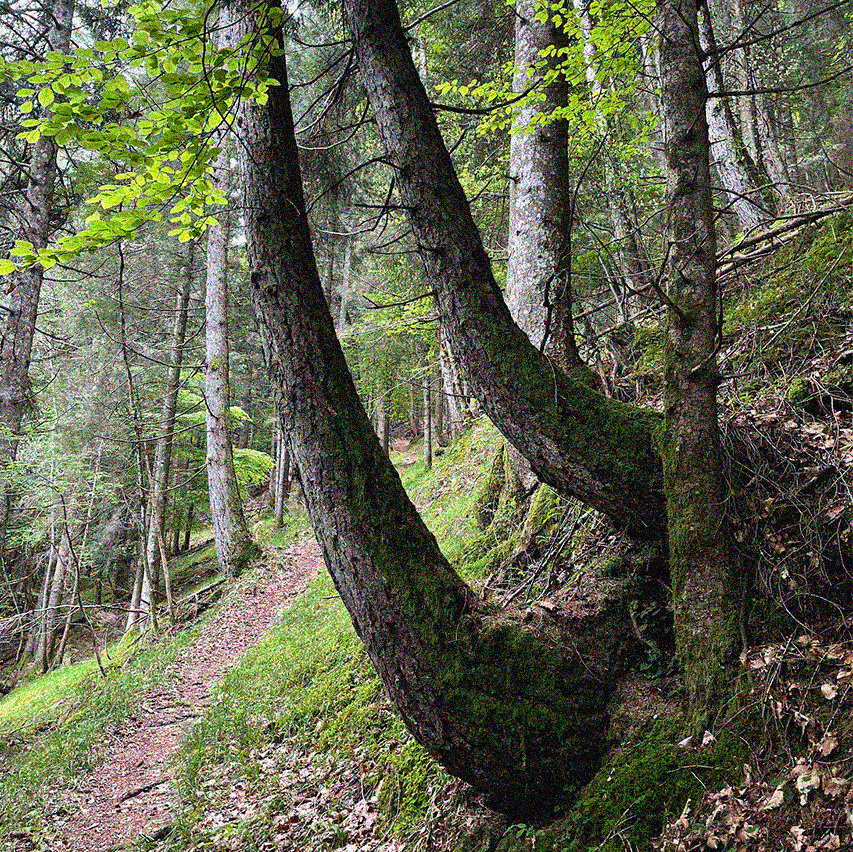
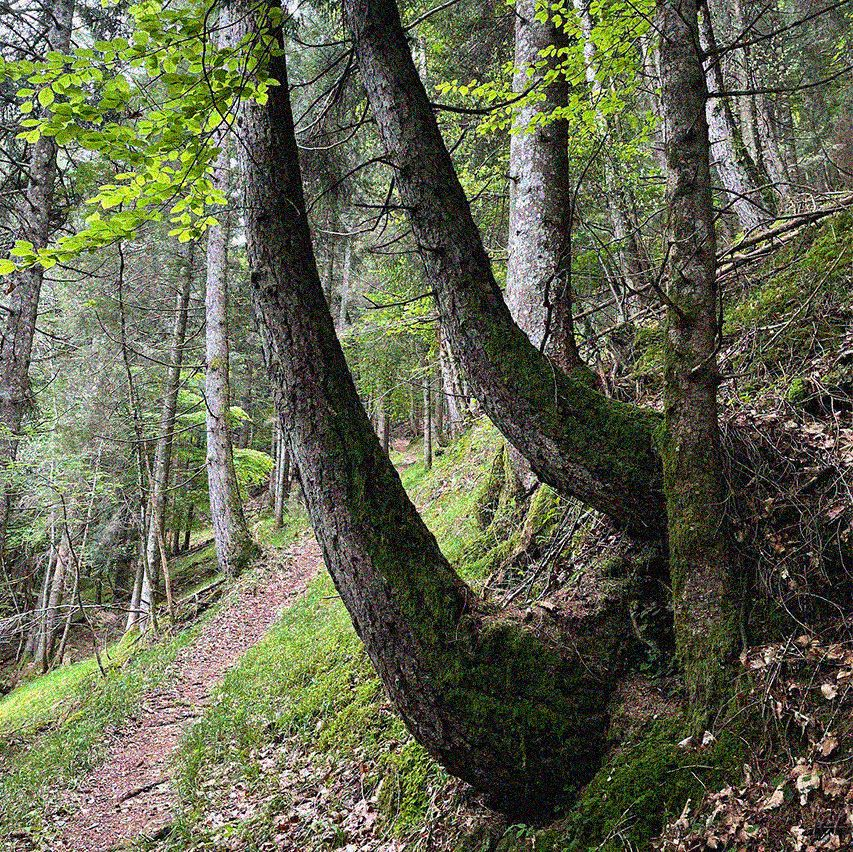
add post on ADHD and attention, compress images

diff --git a/src/posts/adhd-born-or-made.md b/src/posts/adhd-born-or-made.md
@@ -1,0 +1,141 @@
+---
+title: Is ADHD something you're born with, or can you develop it?
+description: Can the digital environment shape our attention? Here is what the studies actually say.
+author: Matteo
+date: 2026-11-06T12:00:00.000Z
+cover: abandoned-carts.webp
+coverTitle: Caucaia - Brazil (Sep 2026)
+language: en
+tags:
+  - adhd
+  - attention
+  - digital media
+  - science
+---
+
+**TL;DR**
+
+- ADHD is a neurodevelopmental disorder. It starts in childhood, even when the diagnosis comes in adulthood, and genetics plays a large part.
+- Poor sleep, stress, anxiety and constant interruptions can make focusing hard. None of that is ADHD.
+- Studies link heavy or problematic social media use to more attention symptoms. The effects are small, the link runs both ways, and no study shows that screens cause ADHD.
+- Platforms are built to hold your attention. Muting notifications, protecting sleep and doing one task at a time help. They don't treat ADHD.
+
+## Introduction
+
+We open the phone to answer a message. One video leads to another, a notification arrives, and a few minutes later the task we left half done is still sitting there. It's easy to wonder whether these experiences are changing our attention, or even producing ADHD. Answering means separating a clinical diagnosis from attention problems that can have many causes, and understanding what studies on digital media actually measure.
+
+## ADHD starts in childhood, even when the diagnosis comes later
+
+ADHD is a neurodevelopmental disorder. It concerns how the capacities for attention, activity regulation and impulse control develop and work. It doesn't mean being distracted now and then. For a diagnosis, symptoms must be persistent, show up in more than one setting and significantly impair daily life. Anxiety, depression, learning difficulties and sleep problems can produce similar symptoms, and a clinical assessment has to consider them. The [NIMH](https://www.nimh.nih.gov/health/topics/attention-deficit-hyperactivity-disorder-adhd) and the [CDC](https://www.cdc.gov/adhd/about/index.html) describe ADHD as a condition that begins in childhood. Signs can change with age and become more visible as demands at school, at work or in organizing daily life increase.
+
+A diagnosis in adulthood doesn't necessarily mean the disorder started then. Some people struggled from childhood but compensated, had support, or were never recognized. In other cases, childhood memories are incomplete and the assessment needs extra care. A diagnosis doesn't come from a single test or a self-description on its own. Clinicians reconstruct history, symptoms, settings and functional impact.
+
+Genetics carries a lot of weight. Heritability estimates from twin studies sit around 70–80%, but they describe differences in risk across populations. They are not the probability that a specific person inherits ADHD, and they don't decide anyone's fate. The [World Federation of ADHD international consensus](https://doi.org/10.1016/j.neubiorev.2021.01.022) stresses that risk emerges from the interaction of many genetic and environmental factors. Risk factors under study include prenatal exposures, preterm birth and some health conditions. A risk factor is not a sufficient cause, and an exposure alone is not grounds for a diagnosis.
+
+## Similar symptoms, different causes
+
+Trouble concentrating can show up without ADHD. Short or poor sleep, chronic stress, anxiety or depression, too many tasks at once, or constant interruptions can all make working memory and attention control harder. These experiences are real, but they don't prove that someone has developed ADHD.
+
+Digital habits can be part of this picture. Switching often between chats, videos and work, for example, can make it harder to pick up the thread again. That doesn't mean the smartphone caused a neurodevelopmental disorder. Time spent online says little on its own. What matters is what you're doing, when, with how many interruptions, and what it pushes out.
+
+## Plasticity: the brain changes, but not automatically
+
+The brain changes its connections and ways of working through learning and experience. Synaptic plasticity (the change in how effectively neurons connect) helps build skills and habits. Repeating an activity often makes some of its steps smoother, and sleep helps consolidate what we learned. None of this means every repeated behavior produces a permanent change that is the same for everyone.
+
+Sustained attention and executive functions, such as planning and holding back an impulsive response, keep developing from childhood through adolescence. Experience, chances to practice, sleep and context can influence how these capacities get used. In adults they remain plastic. But plasticity doesn't show that a digital experience generates ADHD, or that an exercise can "rewire" the brain in a guaranteed direction.
+
+## Why platforms hold our attention
+
+Many platforms combine continuous feeds, notifications, short videos and personalized recommendations. A stream of content can offer novelty with no natural pause. Likes, messages and new videos arrive at times that aren't always predictable. Variable rewards can encourage repeated checking, while visual and sound cues and interruptions make it easier to jump from one activity to the next.
+
+These mechanisms are a plausible explanation for why some people keep going back to an app or find it hard to stop. They are not a diagnosis, and they don't explain every behavior. Dopamine isn't a universal pleasure switch either. It's involved in several processes, including learning and motivation, and naming it doesn't by itself show that a platform has "hooked" the brain.
+
+Why these features exist is a separate question, and not a clinical one. The business model rewards time spent, so products get tuned to keep us there. I wrote about that side (the attention economy and what it does to the way we connect) in <a href="{{ '/posts/loneliness-capitalism/' | url }}">Loneliness and Capitalism</a>.
+
+## What the studies show
+
+Studies don't all measure the same thing. Some look at time spent, others at problematic use, others at symptoms reported by parents or by the kids themselves. An inattention score is not a clinical ADHD diagnosis.
+
+In short: several studies find a link between digital media and attention symptoms. The effects are small, the link can run both ways, and none of these studies shows that screens cause ADHD.
+
+<details>
+<summary><strong>Nivins et al. (2026):</strong> 8,324 children, small link with social media only</summary>
+
+A longitudinal study by [Nivins and colleagues](https://doi.org/10.1542/pedsos.2025-000922) followed 8,324 US children, about 10 years old at the start, every year for up to four years. The researchers compared self-reported estimates of social media, video game and TV/video use with parent-reported symptoms. They also accounted for a genetic risk score and socioeconomic status. Average social media use was associated with a small increase in inattention symptoms over time. The association didn't show up the same way for video games or TV/video.
+
+Attrition by year four (43% of participants were still in the study) and the use of reported measures instead of objective logs limit the conclusions. The study finds an association in the sample. It doesn't show that social media caused ADHD.
+
+</details>
+
+<details>
+<summary><strong>Ra et al. (2018):</strong> teenagers, modest link, all self-reported</summary>
+
+[Ra and colleagues](https://doi.org/10.1001/jama.2018.8931) followed 15- and 16-year-olds in California for 24 months. At the start, none reported significant symptoms. Each digital activity used at high frequency was associated with a modest increase in the odds of later crossing a symptom threshold.
+
+But students rated both their own use and their own symptoms, schools were recruited by convenience, and the measure was not a clinical diagnosis. Undetected subclinical symptoms, family factors or other differences may have contributed to the result.
+
+</details>
+
+<details>
+<summary><strong>Systematic review (2024):</strong> 25 studies, mostly small links, some in reverse</summary>
+
+The [2024 longitudinal systematic review](https://pmc.ncbi.nlm.nih.gov/articles/PMC11272698/) pooled 28 articles from 25 studies of children and adolescents. About three quarters of the studies found at least one association between media use and later ADHD symptoms, usually small. The review also found signs of the reverse: attention symptoms could come before more problematic use.
+
+Results depended on the type of media and how it was measured, and some stopped being significant once other variables were considered. A sequence over time makes an association more informative. It doesn't rule out other explanations or prove causation.
+
+</details>
+
+<details>
+<summary><strong>Ding, Liu and Chao (2025):</strong> meta-analysis, moderate correlation, no direction</summary>
+
+The meta-analysis by [Ding, Liu and Chao](https://doi.org/10.1016/j.jpsychires.2025.07.009) gathered 15 studies and 35,223 participants. It found a moderate correlation between problematic social media use and ADHD symptoms (r = 0.361).
+
+That's a finding about association, not direction. Problematic use can go along with more symptoms, and pre-existing symptoms can also drive impulsive or heavy use. Measures varied across studies, and observational data alone can't separate cause, consequence and shared factors.
+
+</details>
+
+<details>
+<summary><strong>Ebster et al. (2026):</strong> short videos, 42 studies, low certainty</summary>
+
+The review by [Ebster and colleagues](https://doi.org/10.1007/s00787-026-03083-7) covers 42 studies and 46,912 participants up to age 25. It reports associations between heavy, disorganized use of short videos and weaker indicators of attention, working memory and self-regulation.
+
+But 88% of the studies were cross-sectional. Only two were longitudinal, measures were mostly self-reported, and none used objective device data. The authors rate the overall certainty as low and call for longitudinal and experimental studies. The review doesn't prove that short videos causally reduce attention, or that they cause ADHD.
+
+</details>
+
+Taken together, the evidence fits with small or limited effects and with relationships that run in both directions. More use doesn't always mean worse attention, either. Content, context, sleep, individual needs and what the activity replaces all matter.
+
+## Children, teenagers and missed opportunities
+
+During development, time also counts for what it makes possible: free play, reading, moving, sleeping, being with other people. If notifications or late-night sessions cut into sleep, concentration can suffer the next day. If a device opens up chances to learn, create or connect, the effect can be different. Screens, content and uses are not all equal.
+
+The practical question is when and how, as well as how many hours. A video watched with an adult is different from an endless feed watched alone. A call with a friend is different from checking notifications while doing homework. For children and teenagers, digital habits make sense only in the context of the whole day, not as a uniform exposure.
+
+## Can we train our attention back?
+
+Cutting interruptions, muting non-essential notifications, keeping the phone out of reach during a task, protecting sleep and adding movement to the day are reasonable ways to remove obstacles to concentration. Setting aside time to read or work without jumping between activities can also help you practice staying with one task.
+
+The evidence on general "attention training" doesn't support promising the same improvement for everyone. And these habits don't treat ADHD. If persistent difficulties get in the way of study, work or relationships, the next step is a professional assessment.
+
+The most cautious claim is this: we are not necessarily creating a generation of people with ADHD. We may, however, be building environments where attention gets interrupted often and holding the thread takes more effort.
+
+Screen time is one part of the question. The other part is which kind of attention we practice, every day.
+
+## What we know and what we don't know yet
+
+**Solid evidence.** ADHD is a neurodevelopmental disorder with a strong genetic component, onset in childhood, and clinical criteria that include persistence, more than one setting and functional impairment. Sleep, anxiety, depression and other factors can produce similar attention problems and need to be considered.
+
+**Observed correlations.** In several studies, problematic or frequent digital media use goes along with more attention symptoms. Some longitudinal studies find that exposure comes before small changes in scores, but there are also signs of the reverse. Associations are not a diagnosis, and they are not causation.
+
+**Hypotheses still to test.** That specific platform features (infinite scroll, notifications, short videos) cause lasting changes in young people's attention or brains. Answering this needs studies with objective measures, longer follow-up, more representative samples and methods that can tell causes from consequences.
+
+## Essential bibliography
+
+- Nivins S, Mooney MA, Nigg J, Klingberg T. "Digital Media, Genetics, and Risk for ADHD Symptoms in Children: A Longitudinal Study." *Pediatrics Open Science*, 2026. [DOI: 10.1542/pedsos.2025-000922](https://doi.org/10.1542/pedsos.2025-000922)
+- Ding J, Liu Z, Chao M. "The association between problematic social media use and attention deficit/hyperactivity disorder symptomatology: a systematic review and meta-analysis." *Journal of Psychiatric Research*, 2025;189:544–553. [DOI: 10.1016/j.jpsychires.2025.07.009](https://doi.org/10.1016/j.jpsychires.2025.07.009)
+- Ebster M, Lauerer M, Nagel E, Schmidt S. "Taming the endless scroll? Short-form videos, digital routines and neurocognitive outcomes in youth: a systematic literature review." *European Child & Adolescent Psychiatry*, 2026;35:2727–2743. [DOI: 10.1007/s00787-026-03083-7](https://doi.org/10.1007/s00787-026-03083-7)
+- Ra CK et al. "Association of Digital Media Use With Subsequent Symptoms of Attention-Deficit/Hyperactivity Disorder Among Adolescents." *JAMA*, 2018;320(3):255–263. [DOI: 10.1001/jama.2018.8931](https://doi.org/10.1001/jama.2018.8931)
+- Faraone SV et al. "The World Federation of ADHD International Consensus Statement: 208 Evidence-based conclusions about the disorder." *Neuroscience & Biobehavioral Reviews*, 2021;128:789–818. [DOI: 10.1016/j.neubiorev.2021.01.022](https://doi.org/10.1016/j.neubiorev.2021.01.022)
+- "Longitudinal associations between digital media use and ADHD symptoms in children and adolescents: a systematic literature review." *European Child & Adolescent Psychiatry*, 2024. [Full text](https://pmc.ncbi.nlm.nih.gov/articles/PMC11272698/)
+- National Institute of Mental Health. [Attention-Deficit/Hyperactivity Disorder](https://www.nimh.nih.gov/health/topics/attention-deficit-hyperactivity-disorder-adhd)
+- Centers for Disease Control and Prevention. [ADHD in Children](https://www.cdc.gov/adhd/about/index.html)
